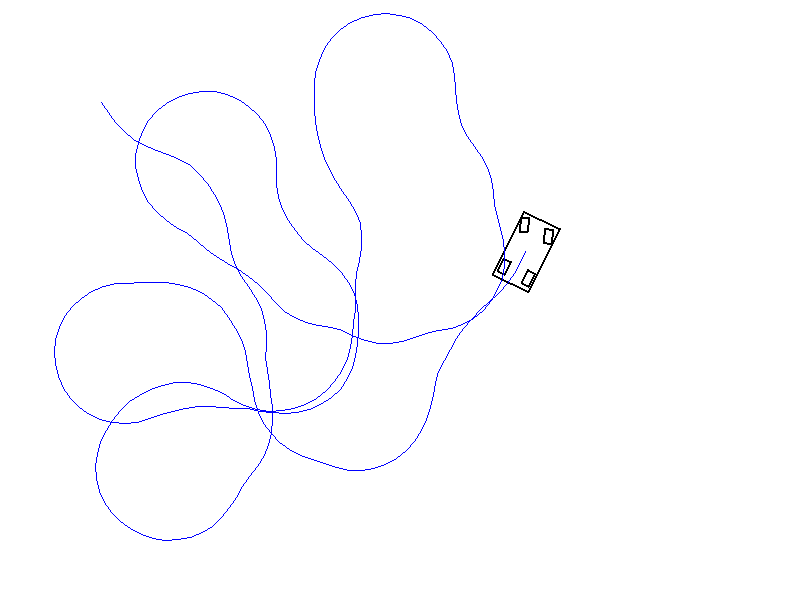
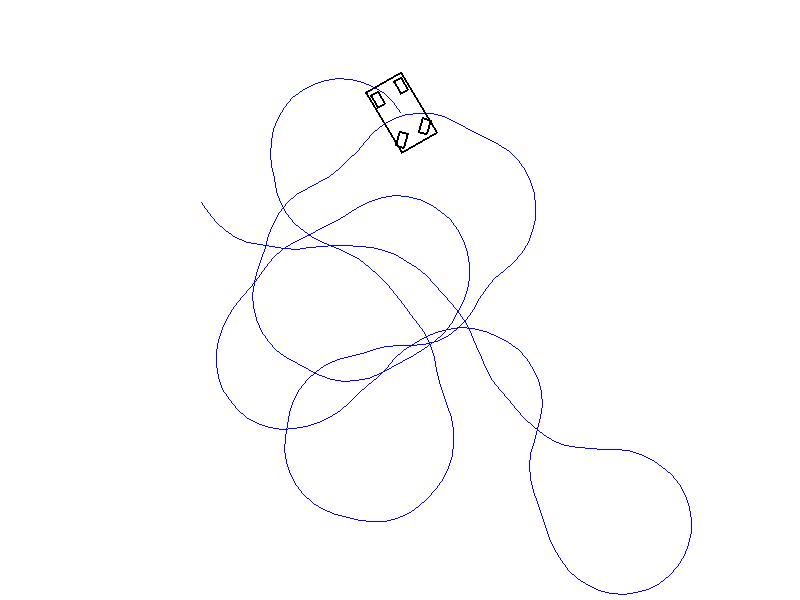
pr7 - neural goal following - refactor

diff --git a/pr7/train_net2.py b/pr7/train_net2.py
@@ -6,7 +6,7 @@ def createModel():
     model = tf.keras.Sequential([
 
         tf.keras.layers.Dense(units=64, activation='relu',
-                              input_shape=[3]),
+                              input_shape=[5]),
         tf.keras.layers.Dense(units=64, activation='relu'),
         tf.keras.layers.Dense(units=1)
     ])
@@ -23,10 +23,12 @@ def trainNet():
         #очень важный этап, связанный с нормализацией входных данных
         arr[:,0]/=100
         arr[:,1]/=100
+        arr[:,2]/=100
+        arr[:,3]/=100
         #arr[:,2]/=1
         N = len(arr)
-        X=arr[:, :3]
-        Y=arr[:, 3].reshape((N, 1))
+        X=arr[:, :5]
+        Y=arr[:, 5].reshape((N, 1))
 
     n1=int(N*0.7)
 
@@ -39,13 +41,13 @@ def trainNet():
     losses = model.fit(X_train, Y_train,
                        validation_data=(X_val, Y_val),
                        batch_size=1,
-                       epochs=100)
+                       epochs=50)
 
     for x, y in zip(X_val[:5], Y_val[:5]):
-        result = model.predict([x.tolist()])
+        result = model.predict(np.array([x.tolist()]))
         print(f"X={x}, Y={result[0]} //{y}")
 
-    model.save_weights("net.h5")
+    model.save_weights("net.weights.h5")
 
-def main():
+if __name__=="__main__":
     trainNet()

diff --git a/pr7/main.py b/pr7/main.py
@@ -13,12 +13,13 @@ sz = (800, 600)
 
 def main():
     samples = []
+    samplesDebug = []
 
     screen = pygame.display.set_mode(sz)
     timer = pygame.time.Clock()
     fps = 20
 
-    robot = Robot(100, 100, 1)
+    robot = Robot(200, 200, 1)
 
     time = 0
     iFrame=0
@@ -31,18 +32,14 @@ def main():
         dt = 1 / fps
         screen.fill((255, 255, 255))
 
-        dx=goal[0] - robot.x
-        dy=goal[1] - robot.y
-        da=limAng(math.atan2(dy, dx) - robot.alpha)
-
         robot.goto(goal, dt)
-        theta=robot.steerVelocity
 
         robot.sim(dt)
         robot.draw(screen)
 
         if iFrame%(fps//4)==0:
-            sample = [dx, dy, da, theta]
+            sample = [int(robot.x), int(robot.y), int(goal[0]),
+                      int(goal[1]), round(robot.alpha,3), round(robot.steerVelocity, 3)]
             samples.append(sample)
             goal=[np.random.randint(0, sz[0]),
                 np.random.randint(0, sz[1])]

diff --git a/pr7/main2.py b/pr7/main2.py
@@ -24,7 +24,7 @@ def main():
     goal = [300, 400]
 
     net=createModel()
-    net.load_weights("net.h5")
+    net.load_weights("net.weights.h5")
 
     while True:
         for ev in pygame.event.get():
@@ -33,12 +33,8 @@ def main():
         dt = 1 / fps
         screen.fill((255, 255, 255))
 
-        dx=goal[0] - robot.x
-        dy=goal[1] - robot.y
-        da=limAng(math.atan2(dy, dx) - robot.alpha)
-
-        input=[dx/100, dy/100, da]
-        output=net.predict([input])
+        input=[robot.x/100, robot.y/100, goal[0]/100, goal[1]/100, robot.alpha]
+        output=net.predict(np.array([input]))
         robot.steerVelocity=output[0][0]
         robot.speed=50
 

diff --git a/pr7/train_net.py b/pr7/train_net.py
@@ -30,5 +30,5 @@ def trainNet():
     result=model.predict([[0.4, 0.4, 0.4]])
     print(result)
 
-def main():
+if __name__=="__main__":
     trainNet()
